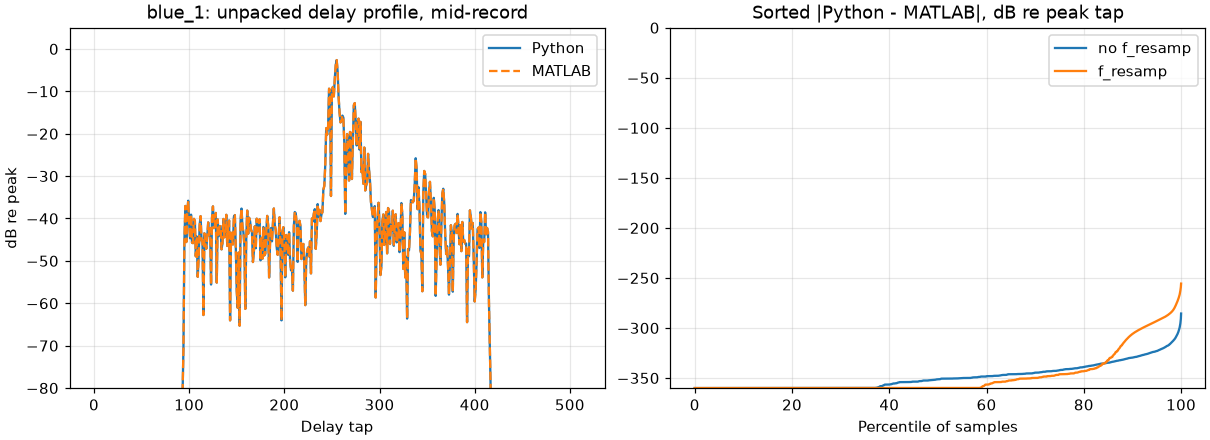
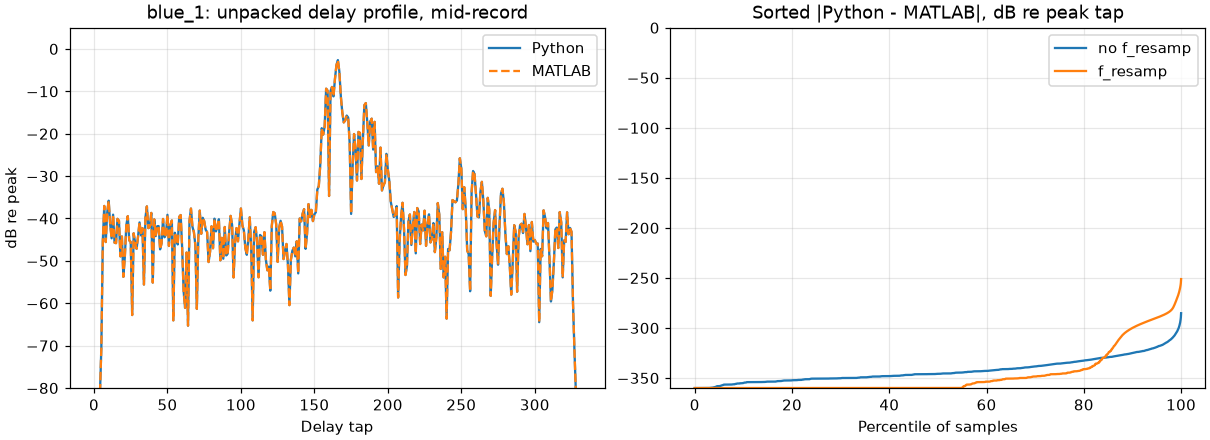
Update the calibration report [skip ci]
python  32f3423
matlab  6f39541

diff --git a/REPORT.md b/REPORT.md
@@ -19,13 +19,13 @@ Python start 100000, MATLAB start 100001, hydrophones [0, 3, 7] (0-based).  Pyth
 
 ### Unpack (blue_1)
 
-Unpacked to 50 Hz on hydrophones [0, 3] (0-based), shape (512, 2, 2615) (delay, element, time), with and without `f_resamp = 0.9992406986`.
+Unpacked to 50 Hz on hydrophones [0, 3] (0-based), shape (332, 2, 2615) (delay, element, time), with and without `f_resamp = 0.9992406986`.
 
 | what is compared | NMSE |
 |---|---|
 | unpack, no `f_resamp` | **-291 dB** |
-| unpack, `f_resamp` active | **-260 dB** |
-| how much `f_resamp` changes the output (Python) | **2 dB** |
+| unpack, `f_resamp` active | **-256 dB** |
+| how much `f_resamp` changes the output (Python) | **3 dB** |
 
 The third row is the guard on the second: `f_resamp` has to change the output substantially, or the row above it would agree for the wrong reason.
 
@@ -65,13 +65,13 @@ Python start 100000, MATLAB start 100001, hydrophones [0, 8, 16] (0-based).  Pyt
 
 ### Unpack (purple_3)
 
-Unpacked to 65 Hz on hydrophones [0, 8] (0-based), shape (480, 2, 3471) (delay, element, time), with and without `f_resamp = 0.9992406986`.
+Unpacked to 65 Hz on hydrophones [0, 8] (0-based), shape (300, 2, 3471) (delay, element, time), with and without `f_resamp = 0.9992406986`.
 
 | what is compared | NMSE |
 |---|---|
 | unpack, no `f_resamp` | **-298 dB** |
-| unpack, `f_resamp` active | **-264 dB** |
-| how much `f_resamp` changes the output (Python) | **1 dB** |
+| unpack, `f_resamp` active | **-255 dB** |
+| how much `f_resamp` changes the output (Python) | **3 dB** |
 
 The third row is the guard on the second: `f_resamp` has to change the output substantially, or the row above it would agree for the wrong reason.
 
@@ -107,8 +107,8 @@ The last row is the control: `beta` is not symmetric in (i, j), so an implementa
 | blue_1: replay lag, hydrophone 3 | 0 samples | 0 samples | pass |
 | blue_1: replay lag, hydrophone 7 | 0 samples | 0 samples | pass |
 | blue_1: unpack without f_resamp | -291.2 dB | -200 dB | pass |
-| blue_1: unpack with f_resamp | -259.5 dB | -200 dB | pass |
-| blue_1: f_resamp actually does something | -2.351 dB | 20 dB | pass |
+| blue_1: unpack with f_resamp | -256.1 dB | -200 dB | pass |
+| blue_1: f_resamp actually does something | -2.973 dB | 20 dB | pass |
 | blue_1: noise std, max relative difference | 0.007539  | 0.02  | pass |
 | blue_1: excess kurtosis vs Gaussian (Python) | 0.03019  | 0.15  | pass |
 | blue_1: excess kurtosis vs Gaussian (MATLAB) | 0.02406  | 0.15  | pass |
@@ -128,8 +128,8 @@ The last row is the control: `beta` is not symmetric in (i, j), so an implementa
 | purple_3: replay lag, hydrophone 8 | 0 samples | 0 samples | pass |
 | purple_3: replay lag, hydrophone 16 | 0 samples | 0 samples | pass |
 | purple_3: unpack without f_resamp | -298.3 dB | -200 dB | pass |
-| purple_3: unpack with f_resamp | -264.3 dB | -200 dB | pass |
-| purple_3: f_resamp actually does something | -1.138 dB | 20 dB | pass |
+| purple_3: unpack with f_resamp | -255.1 dB | -200 dB | pass |
+| purple_3: f_resamp actually does something | -3.029 dB | 20 dB | pass |
 | purple_3: noise std, max relative difference | 0.006694  | 0.02  | pass |
 | purple_3: excess kurtosis vs Gaussian (Python) | 0.01368  | 0.15  | pass |
 | purple_3: excess kurtosis vs Gaussian (MATLAB) | 0.02043  | 0.15  | pass |
